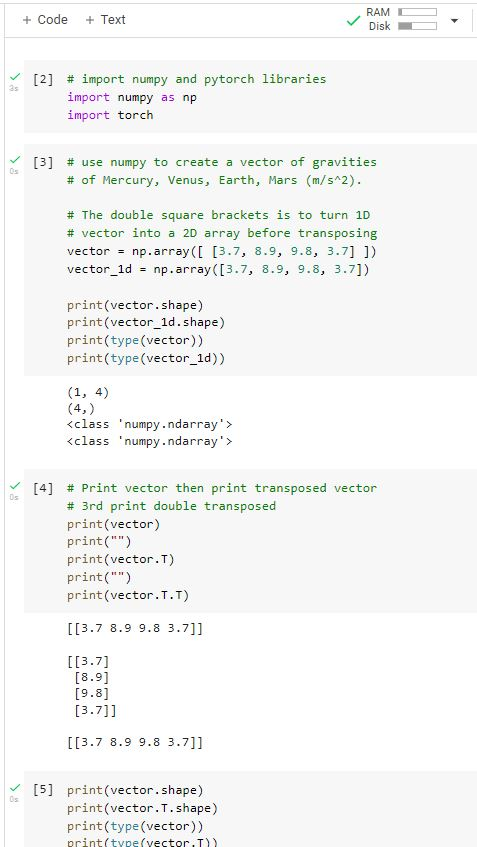
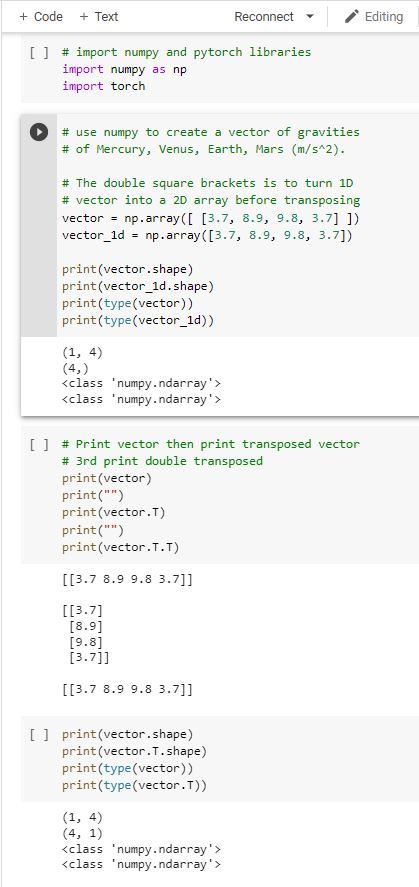
new edit

diff --git a/content/post/the-transpose-operation-with-examples-in-python-and-google-colab.md b/content/post/the-transpose-operation-with-examples-in-python-and-google-colab.md
@@ -12,7 +12,7 @@ V <sup>T</sup> now becomes a 4x1 (4 rows 1 column) column vector with the same o
 We can create vector and matrix by first importing the Python Numpy and PyTorch libraries. It is better to create a row vector using the double bracket. This is because it will give us a two dimensional array of 1 one row and n columns. When we do a transpose, it will then give us the correct dimension of n rows and 1 column.
 
 Below is the YouTube video showing examples of the transpose operation in Google Colab:
-{{< youtube aT1ewCKngUM >}} 
+{{< youtube 2PNbdVPrpfE >}} 
 
 Right Click and open the link below in new tab to see Colab notebook:
 
@@ -21,5 +21,8 @@ Right Click and open the link below in new tab to see Colab notebook:
 
 ![Colab Picture 1 of Transpose Operation](/img/transpose-01.jpg)
 ![Colab Picture 2 of Transpose Operation](/img/transpose-02.jpg)
+![Colab Picture 1 of Transpose Operation](/img/transpose-03.jpg)
+![Colab Picture 2 of Transpose Operation](/img/transpose-04.jpg)
+
 
 
